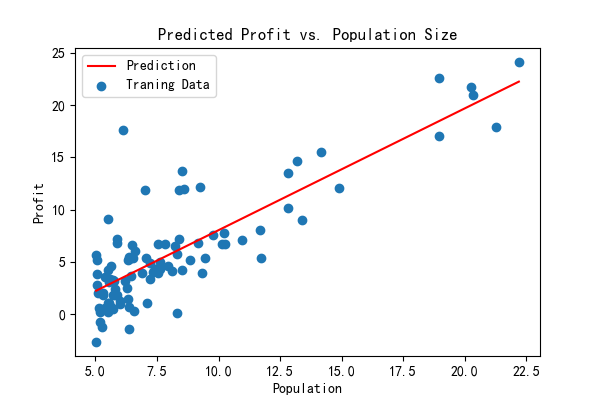
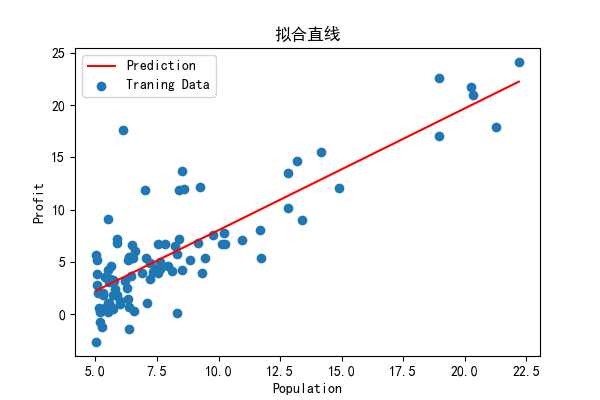
逆归一化，alpha学习率

Changed region(s): [[0.24, 0.06, 0.78, 0.12]]

diff --git a/question2.py b/question2.py
@@ -1,8 +1,6 @@
 import matplotlib.pyplot as plt
 import numpy as np
 import pandas as pd
-import time
-from sklearn.linear_model import LinearRegression
 
 
 def compute_cost(X, y, theta):
@@ -51,11 +49,12 @@ def multiple_linear_regression(alpha, data2, is_draw):
 
     if is_draw:
         fig, ax = plt.subplots(figsize=(12, 8))
+        # np.arange创建等差数组
         ax.plot(np.arange(epoch), cost2, 'r')
         ax.set_xlabel('Iterations')
         ax.set_ylabel('Cost')
         ax.set_title('Error vs. Training Epoch')
-        plt.savefig("题目二拟合结果/alpha=0.001迭代次数-代价曲线.png")
+        plt.savefig("题目二拟合结果/alpha={}迭代次数-代价曲线.png".format(alpha))
         plt.show()
     return g2, cost2
 
@@ -67,32 +66,29 @@ if __name__ == "__main__":
     print(data2.describe())
 
     # 预处理步骤 - 特征归一化
+    # Z-score
     # 减去平均值除以标准差,归一化后标准差为1
+    data_mean = data2.mean()
+    data_std = data2.std()
     data2 = (data2 - data2.mean()) / data2.std()
     print(data2.describe())
 
+    # 归一化min-max
+
     # add ones column
     data2.insert(0, 'Ones', 1)
-
+    # alpha小收敛速度慢，
+    # 太大损失函数每次迭代后不一定能下降，可能会发散
     time_cost = []
     x = []
-    # alpha 0.01 - 10
-    # alpha越大学习速度越快，但是拟合越不准确
-    # 这段代码需要运行时间比较长，先注释掉
-    # for alpha in range(0,10000,10):
-    #     time_start = time.time()
-    #     multiple_linear_regression(alpha/1000, data2,False)
-    #     x.append(alpha/100)
-    #     time_end = time.time()
-    #     time_cost.append(time_end-time_start)
-    #     print(alpha,"\t",time_end-time_start)
-    # plt.plot(x, time_cost, 'k.')  # 画出拟合曲线
-    # plt.savefig("题目二拟合结果/alpha-收敛时间.png")
-    # plt.show()
 
-    alpha = 0.001
+    # alpha 0.01 0.05 0.1
+    alpha = 0.1
     final_theta, cost = multiple_linear_regression(alpha, data2, True)
-    print("归一化后回归参数为:{}".format(final_theta))
-    print("归一化后最终代价为：{}".format(cost[-1]))
+    print("回归参数为:{}".format(final_theta * data_std["Size"] + data_mean["Bedrooms"]))
+    print("最终代价为：{}".format(cost[-1] * data_std["Size"] + data_mean["Bedrooms"]))
     # alpha越大学习速度越快，但是拟合越不准确
-    print("预测房屋面积为 1650 平方英尺，房间数量为 3 时，归一化价格：{}".format((final_theta[0, 0] + (final_theta[0, 1] * 1650) + (final_theta[0, 2] * 3))))
+
+    price = (final_theta[0, 0] + (final_theta[0, 1] * (1650 * data_std["Size"] + data_mean["Bedrooms"])) + (
+                final_theta[0, 2] * (3 * data_std["Bedrooms"] + data_mean["Bedrooms"])))
+    print("预测房屋面积为 1650 平方英尺，房间数量为 3 时，预测价格：{}".format(price))

diff --git a/question1.py b/question1.py
@@ -26,7 +26,6 @@ def gradient_descent(X, y, theta, alpha, epoch):
         # 迭代次数
         # 利用向量化一步求解
         temp = theta - (alpha / m) * (X * theta.T - y).T * X
-
         theta = temp
         cost[i] = compute_cost(X, y, theta)
 
@@ -146,7 +145,7 @@ def create_by_local():
     ax.legend(loc=2)  # 2表示在左上角
     ax.set_xlabel('Population')
     ax.set_ylabel('Profit')
-    ax.set_title('Predicted Profit vs. Population Size')
+    ax.set_title('拟合直线')
     plt.savefig("题目一拟合结果/梯度下降拟合.png")
     plt.show()
 
@@ -155,7 +154,7 @@ def create_by_local():
     ax.plot(np.arange(epoch), cost, 'r')  # np.arange()返回等差数组
     ax.set_xlabel('Iterations')
     ax.set_ylabel('Cost')
-    ax.set_title('Cost vs. Training Epoch')
+    ax.set_title('代价值随迭代次数的变化')
     plt.savefig("题目一拟合结果/梯度下降拟合代价.png")
     plt.show()
 
